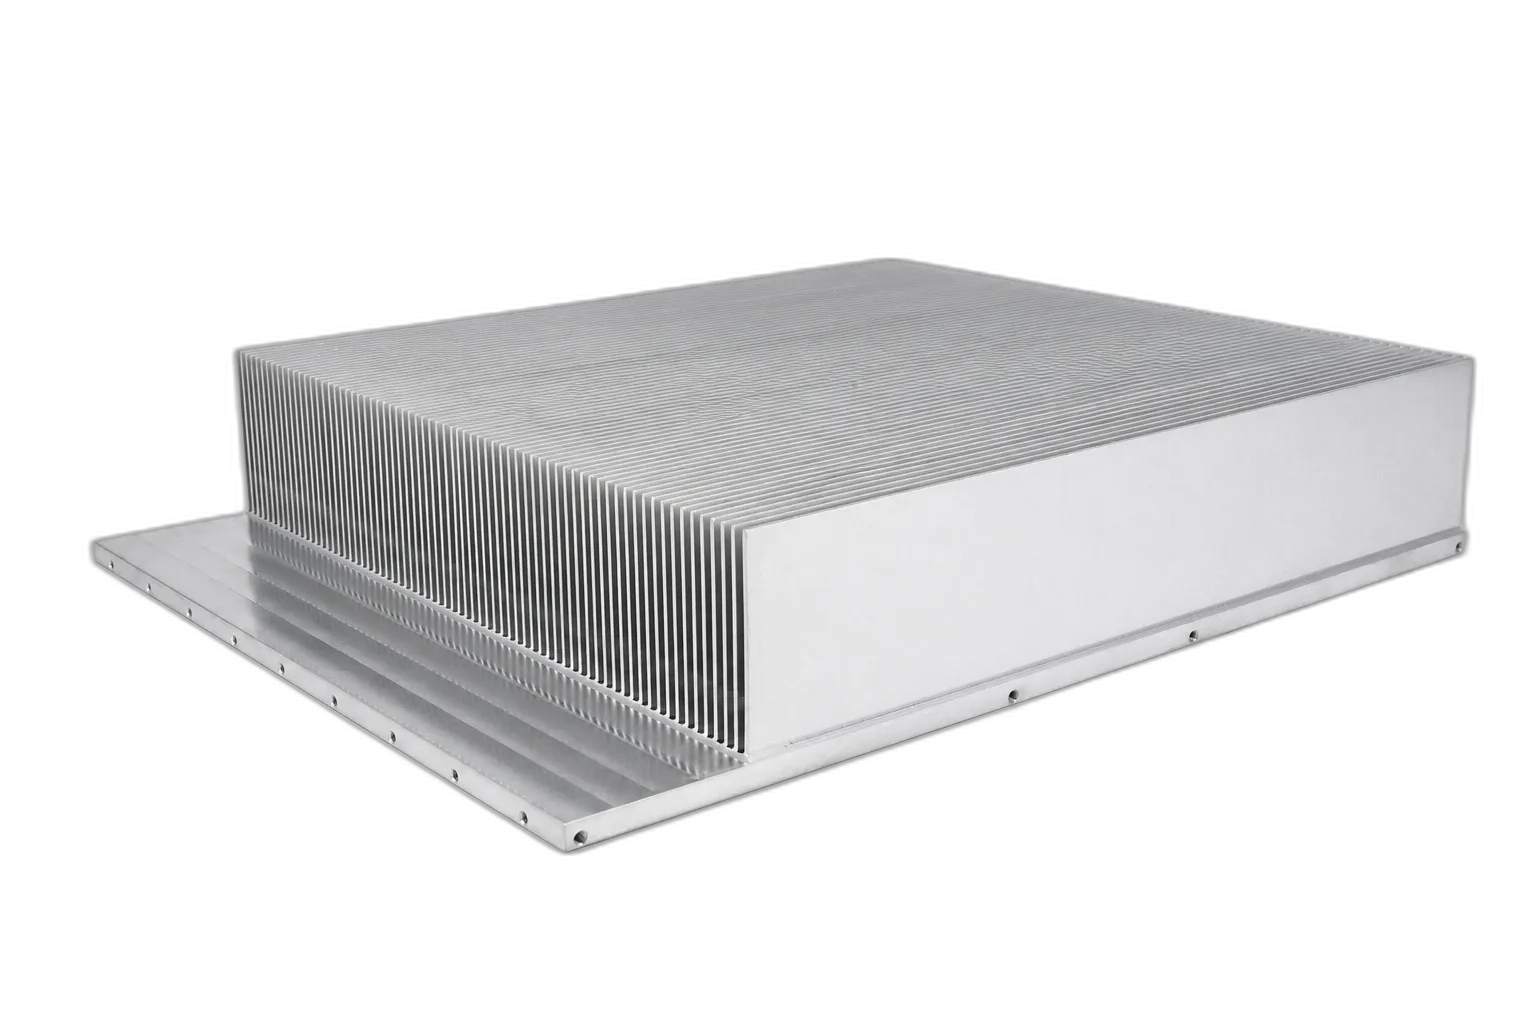
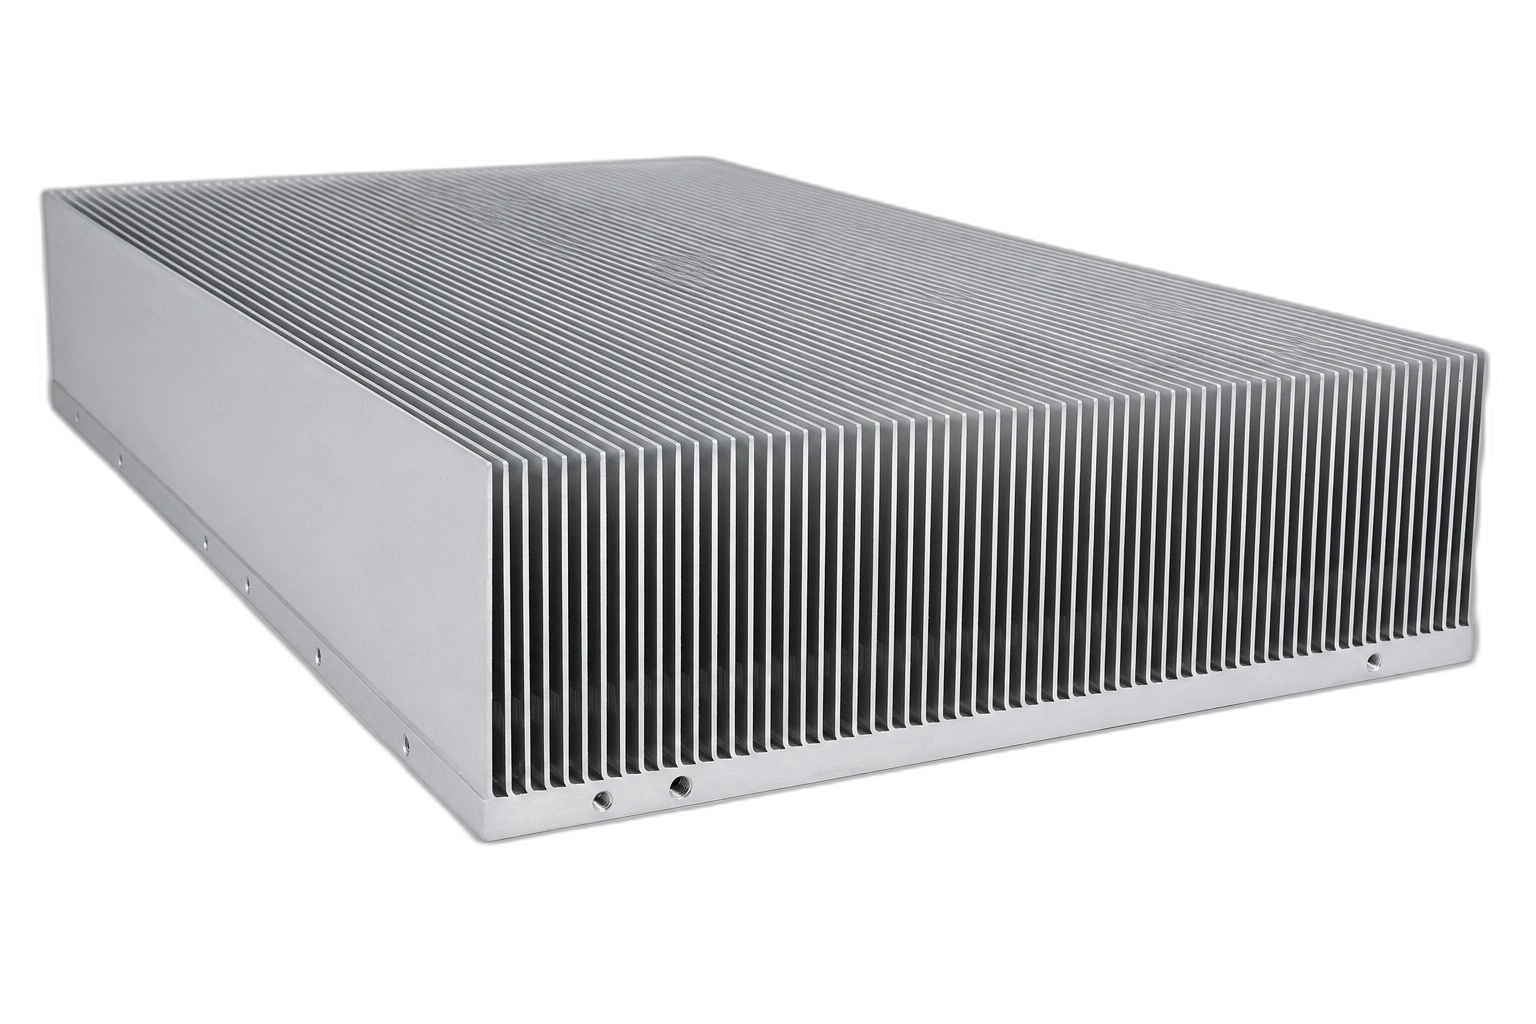
fix(portfolio): correct skived fin heat sink image with transparent high-res cutout

diff --git a/src/components/ui/ReferenceInteractiveModals.tsx b/src/components/ui/ReferenceInteractiveModals.tsx
@@ -35,7 +35,7 @@ export const REFERENCE_PRODUCTS: SolutionProduct[] = [
     id: "skived",
     name: "Skived fin heat sinks",
     family: "air",
-    image: "/assets/extruded.webp",
+    image: "/assets/skived.webp",
     tag: "AIR COOLED / HIGH FIN DENSITY",
     short: "Dense fin structures for compact cooling designs.",
     description: "Skiving forms thin fins from a single block of aluminum or copper. ITS evaluates fin density and spacing together with the airflow and heat source layout to develop the design.",

diff --git a/src/data/portfolioData.ts b/src/data/portfolioData.ts
@@ -34,7 +34,7 @@ export const PORTFOLIO_PRODUCTS: PortfolioItem[] = [
     id: "skived",
     name: "Skived fin heat sinks",
     family: "air",
-    image: "/images/portfolio/extruded.webp",
+    image: "/images/portfolio/skived.webp",
     tag: "AIR COOLED / HIGH FIN DENSITY",
     short: "Dense fin structures for compact cooling designs.",
     description:
